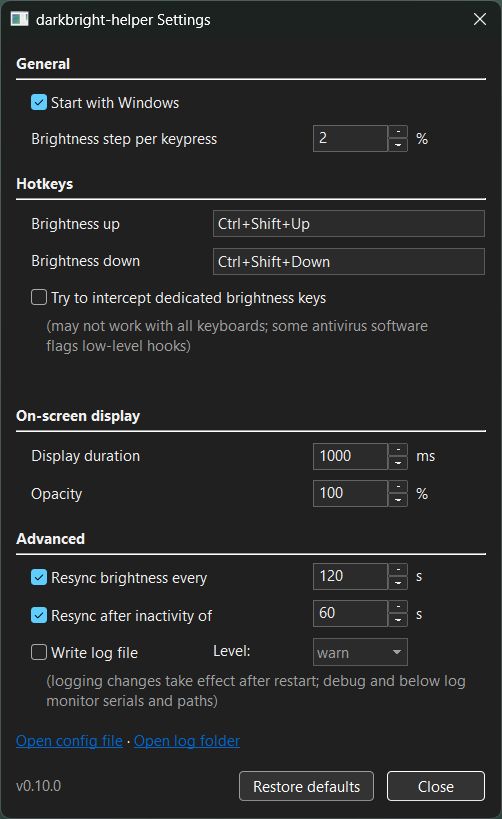
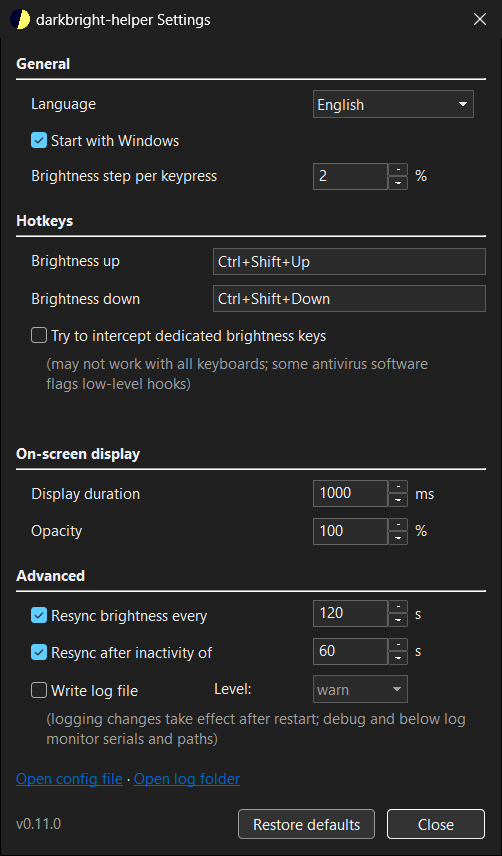
Update docs for the seven new UI languages
The config reference listed only en and de as valid language tags and used fr as its unshipped example. The README screenshot predated the Language row.

diff --git a/docs/architecture.md b/docs/architecture.md
@@ -627,7 +627,7 @@ map's contents are exempt (its key format is not yet a contract).
 | `refresh.inactivity_seconds` | 0 - 600 | 30 |
 | `logging.file_enabled` | `true` / `false` | `false` |
 | `logging.file_level` | `error` / `warn` / `info` / `debug` / `trace` (case-insensitive) | `info` |
-| `language` | `system` or a shipped BCP-47 tag (`en`, `de`; a regional tag such as `de-AT` resolves to its language; case-insensitive) | `system` |
+| `language` | `system` or a shipped BCP-47 tag (`de`, `en`, `es`, `fr`, `id`, `pt`, `ru`, `tr`, `vi`; a regional tag such as `de-AT` or `pt-BR` resolves to its language; case-insensitive) | `system` |
 
 These ranges are shared with, but enforced differently by, the settings window (§14): the
 loader above *substitutes the default* for an out-of-range value (a repair policy for
@@ -635,7 +635,7 @@ unattended startup), while the dialog *clamps to the nearest bound* on focus los
 policy for a user mid-edit). Same never-fatal spirit, deliberately different mechanism — don't
 "fix" one to match the other.
 
-`language` is validated strictly: a well-formed but unshipped tag (`fr`) is reported like a
+`language` is validated strictly: a well-formed but unshipped tag (`ja`) is reported like a
 typo and replaced by `system`, never silently shown in English.
 
 Two spinner ranges deliberately do *not* match the table, and the mismatch is the point: in

diff --git a/README.md b/README.md
@@ -34,7 +34,7 @@ Rust.
 
 ![The tray context menu: live per-monitor status, the current hotkeys, and Settings, Open Log Folder and Quit](docs/media/tray-menu.png)
 
-![The settings window: hotkey rebinding, brightness step, OSD timing, refresh intervals, logging and Start with Windows](docs/media/settings-window.png)
+![The settings window: language, Start with Windows, brightness step, hotkey rebinding, OSD timing, refresh intervals and logging](docs/media/settings-window.png)
 
 ## Download
 
